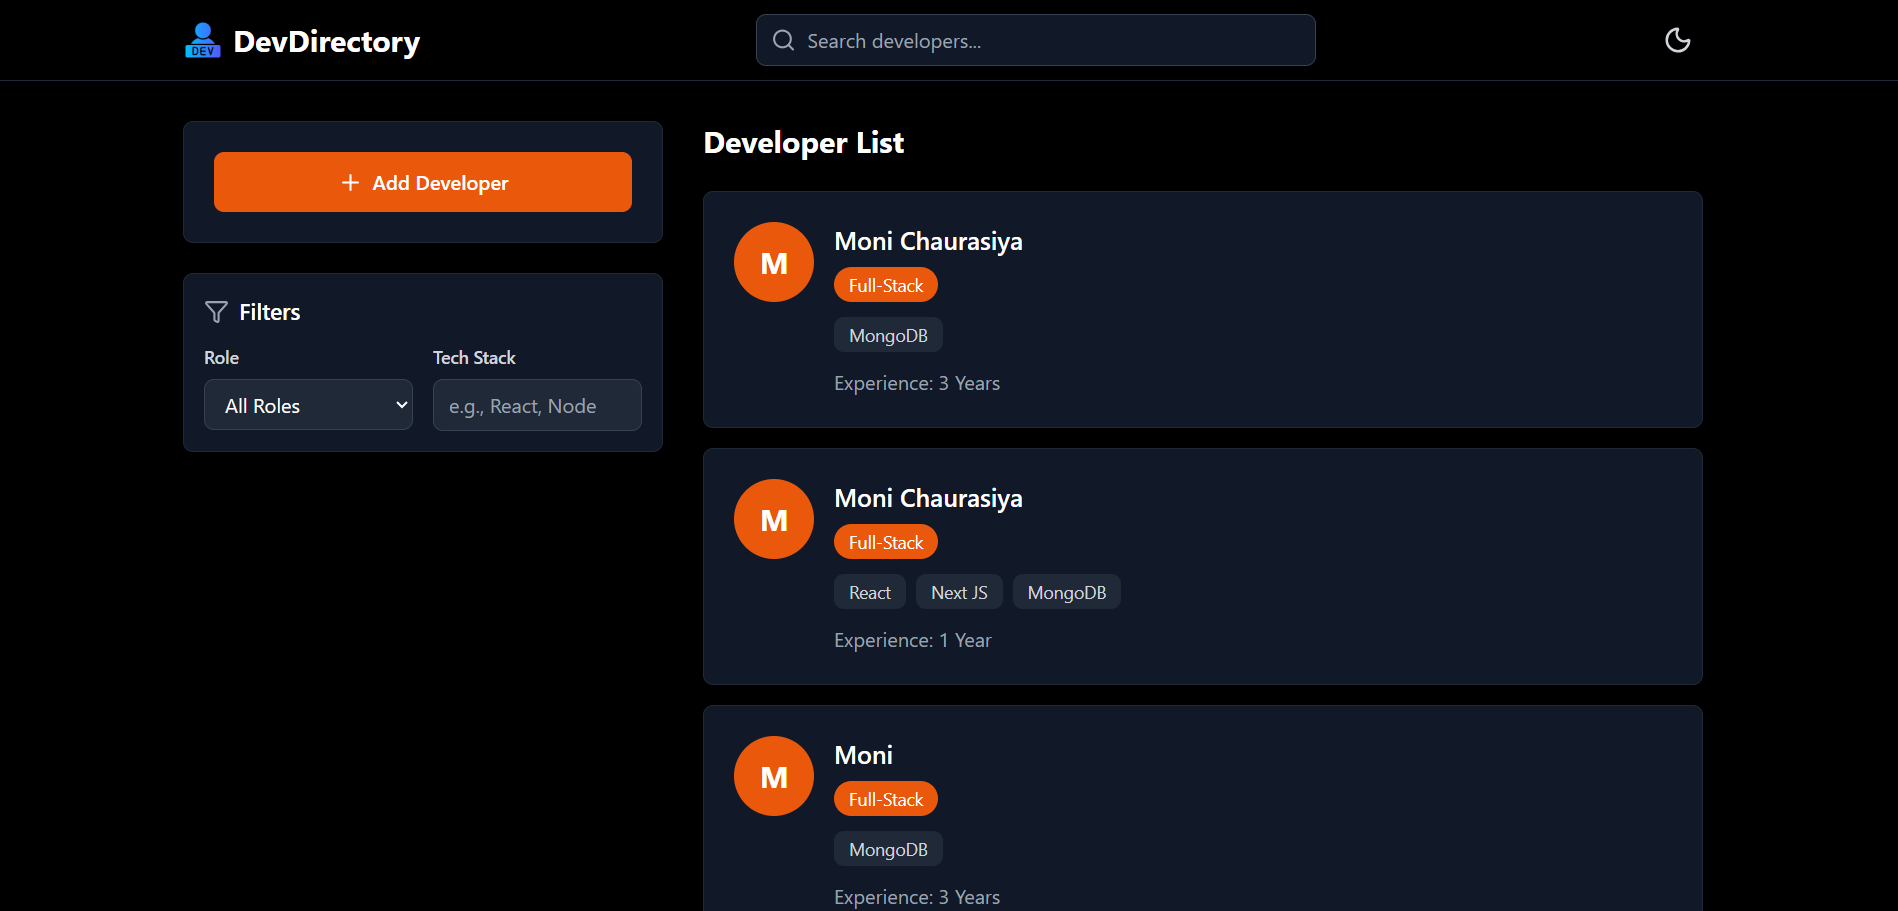
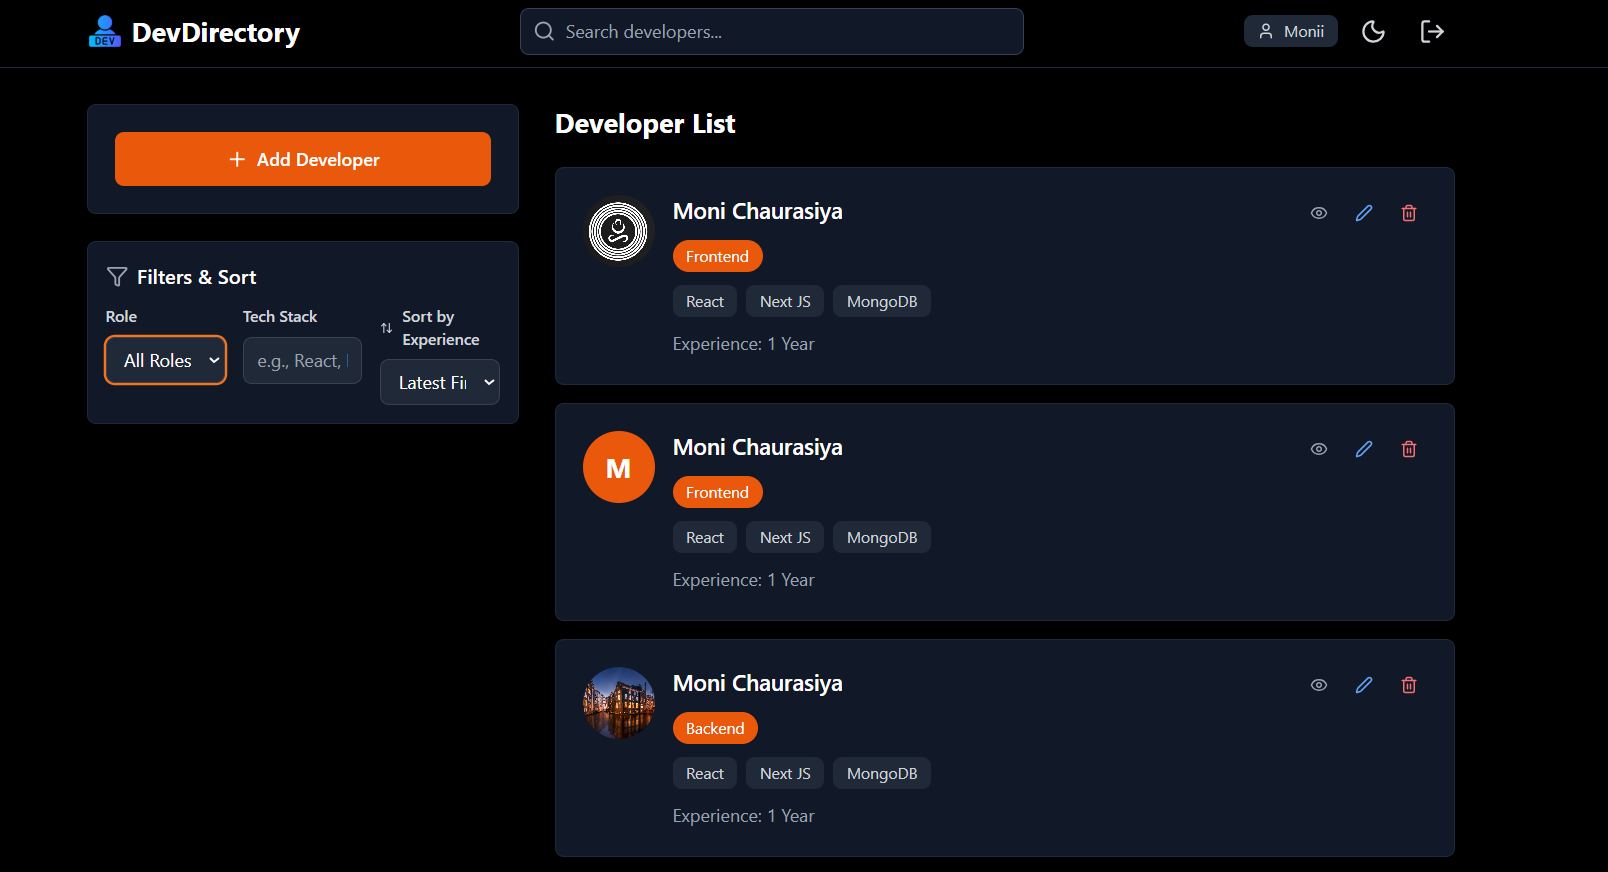
fix: fixed file upload and updated readme

diff --git a/backend/config/cloudinary.js b/backend/config/cloudinary.js
@@ -1,27 +1,60 @@
-const cloudinary = require('cloudinary').v2;
-const { CloudinaryStorage } = require('multer-storage-cloudinary');
+//const cloudinary = require('cloudinary').v2;
+//const { CloudinaryStorage } = require('multer-storage-cloudinary');
 const multer = require('multer');
+const path = require('path');
+const fs = require('fs');
 
-cloudinary.config({
-  cloud_name: process.env.CLOUDINARY_CLOUD_NAME,
-  api_key: process.env.CLOUDINARY_API_KEY,
-  api_secret: process.env.CLOUDINARY_API_SECRET
-});
+// cloudinary.config({
+//   cloud_name: process.env.CLOUDINARY_CLOUD_NAME,
+//   api_key: process.env.CLOUDINARY_API_KEY,
+//   api_secret: process.env.CLOUDINARY_API_SECRET
+// });
 
-const storage = new CloudinaryStorage({
-  cloudinary: cloudinary,
-  params: {
-    folder: 'devdirectory',
-    allowed_formats: ['jpg', 'jpeg', 'png', 'gif'],
-    transformation: [{ width: 500, height: 500, crop: 'limit' }]
+// const storage = new CloudinaryStorage({
+//   cloudinary: cloudinary,
+//   params: {
+//     folder: 'devdirectory',
+//     allowed_formats: ['jpg', 'jpeg', 'png', 'gif'],
+//     transformation: [{ width: 500, height: 500, crop: 'limit' }]
+//   }
+// });
+
+const uploadsDir = path.join(__dirname, '..', 'uploads');
+if (!fs.existsSync(uploadsDir)) {
+  fs.mkdirSync(uploadsDir, { recursive: true });
+}
+
+const storage = multer.diskStorage({
+  destination: function (req, file, cb) {
+    cb(null, uploadsDir); // Save to backend/uploads folder
+  },
+  filename: function (req, file, cb) {
+    // Create unique filename: timestamp-randomnumber-originalname
+    const uniqueSuffix = Date.now() + '-' + Math.round(Math.random() * 1E9);
+    const ext = path.extname(file.originalname);
+    const filename = `developer-${uniqueSuffix}${ext}`;
+    cb(null, filename);
   }
 });
+
+const fileFilter = (req, file, cb) => {
+  const allowedTypes = /jpeg|jpg|png|gif/;
+  const extname = allowedTypes.test(path.extname(file.originalname).toLowerCase());
+  const mimetype = allowedTypes.test(file.mimetype);
+
+  if (mimetype && extname) {
+    return cb(null, true);
+  } else {
+    cb(new Error('Only image files are allowed (jpeg, jpg, png, gif)'));
+  }
+};
 
 const upload = multer({
   storage: storage,
   limits: {
     fileSize: 5 * 1024 * 1024
-  }
+  },
+  fileFilter: fileFilter
 });
 
-module.exports = { cloudinary, upload };
+module.exports = {  upload };

diff --git a/frontend/src/components/DeveloperCard.jsx b/frontend/src/components/DeveloperCard.jsx
@@ -1,6 +1,6 @@
 import { useNavigate } from 'react-router-dom';
 import { Edit2, Trash2, Eye } from 'lucide-react';
-
+import { getImageUrl } from '../utils/helpers';
 const DeveloperCard = ({ developer, onEdit, onDelete }) => {
   const navigate = useNavigate();
   const { _id, fullName, role, techStack, experience, photo } = developer;
@@ -18,17 +18,28 @@ const DeveloperCard = ({ developer, onEdit, onDelete }) => {
     return colors[role] || 'bg-orange-600';
   };
 
+  // const getImageUrl = (photoPath) => {
+  //   if (!photoPath) return null;
+  //   if (photoPath.startsWith('http')) return photoPath;
+  //   return `http://localhost:5000${photoPath}`;
+  // };
+
   const techArray = techStack.split(',').map(tech => tech.trim());
 
   return (
     <div className="bg-white dark:bg-gray-900 rounded-lg p-6 border border-gray-200 dark:border-gray-800 hover:shadow-lg transition-shadow">
       <div className="flex items-start gap-4">
-        {/* Profile Picture or Initial */}
+       
         {photo ? (
           <img
-            src={photo}
+            //src={photo}
+            src={getImageUrl(photo)}
             alt={fullName}
             className="w-16 h-16 rounded-full object-cover flex-shrink-0"
+            onError={(e) => {
+              e.target.style.display = 'none';
+              e.target.nextSibling.style.display = 'flex';
+            }}
           />
         ) : (
           <div className="w-16 h-16 rounded-full bg-orange-600 flex items-center justify-center flex-shrink-0">
@@ -44,7 +55,6 @@ const DeveloperCard = ({ developer, onEdit, onDelete }) => {
               {fullName}
             </h3>
             
-            {/* Action Buttons */}
             <div className="flex items-center gap-2">
               <button
                 onClick={() => navigate(`/developer/${_id}`)}

diff --git a/backend/server.js b/backend/server.js
@@ -5,17 +5,9 @@ const connectDB = require('./config/database');
 const authRoutes =require('./routes/auth')
 const developerRoutes = require('./routes/developers');
 const errorHandler = require('./middleware/errorHandler');
+const path = require('path');
 
 dotenv.config();
-
-console.log('🔍 Environment Variables Check:');
-console.log('PORT:', process.env.PORT);
-console.log('MONGODB_URI:', process.env.MONGODB_URI ? '✅ Set' : '❌ Not Set');
-console.log('JWT_SECRET:', process.env.JWT_SECRET ? '✅ Set' : '❌ Not Set');
-console.log('CLOUDINARY_CLOUD_NAME:', process.env.CLOUDINARY_CLOUD_NAME || '❌ NOT SET');
-console.log('CLOUDINARY_API_KEY:', process.env.CLOUDINARY_API_KEY ? '✅ Set' : '❌ NOT SET');
-console.log('CLOUDINARY_API_SECRET:', process.env.CLOUDINARY_API_SECRET ? '✅ Set' : '❌ NOT SET');
-console.log('---');
 
 const app = express();
 const PORT = process.env.PORT || 5000;
@@ -24,8 +16,8 @@ connectDB();
 
 app.use(cors({
 
-  //origin: process.env.FRONTEND_URL || 'http://localhost:5173',
-  origin:  'http://localhost:5173',
+  origin: process.env.FRONTEND_URL || 'http://localhost:5173',
+ // origin:  'http://localhost:5173',
   Credentials: true
 }
 ));
@@ -33,16 +25,10 @@ app.use(express.json());
 app.use(express.urlencoded({extented: true}));
 
 
+app.use('/uploads', express.static(path.join(__dirname, 'uploads')));
+
 app.use('/api/auth',authRoutes)
 app.use('/api/developers', developerRoutes);
-
-app.get('/api/test-cloudinary', (req, res) => {
-     const { cloudinary } = require('./config/cloudinary');
-     res.json({
-       configured: !!cloudinary.config().cloud_name,
-       cloudName: cloudinary.config().cloud_name
-     });
-   });
 
 app.get('/', (req,res)=>{
   res.status(200).json({

diff --git a/backend/controllers/developerController.js b/backend/controllers/developerController.js
@@ -1,9 +1,11 @@
 const Developer = require('../models/Developer');
-
+const path = require('path');
+const fs = require('fs');
 exports.createDeveloper = async (req, res, next) => {
   try {
     const { fullName, role, techStack, experience, description } = req.body;
-    const photo= req.file ? req.file.path : '' ;
+    //const photo= req.file ? req.file.path : '' ;
+     const photo = req.file ? `/uploads/${req.file.filename}` : '';
     const developer = await Developer.create({
       fullName,
       role,
@@ -38,7 +40,14 @@ exports.updateDeveloper=async(req,res,next)=>{
     developer.description= description || developer.description;
 
     if(req.file){
-      developer.photo=req.file.path;
+     // developer.photo=req.file.path;
+     if (developer.photo) {
+        const oldPhotoPath = path.join(__dirname, '..', developer.photo);
+        if (fs.existsSync(oldPhotoPath)) {
+          fs.unlinkSync(oldPhotoPath);
+        }
+      }
+      developer.photo = `/uploads/${req.file.filename}`;
 
     }
     await developer.save();
@@ -61,6 +70,14 @@ exports.deleteDeveloper= async (req,res,next)=>{
         message: 'Developer not found'
       })
     }
+   
+    if (developer.photo) {
+      const photoPath = path.join(__dirname, '..', developer.photo);
+      if (fs.existsSync(photoPath)) {
+        fs.unlinkSync(photoPath);
+      }
+    }
+
     await developer.deleteOne();
     res.status(200).json({
       success:true,

diff --git a/frontend/src/components/DeveloperProfile.jsx b/frontend/src/components/DeveloperProfile.jsx
@@ -3,6 +3,12 @@ import { useParams, useNavigate } from 'react-router-dom';
 import { ArrowLeft, Calendar, Briefcase, Code, User } from 'lucide-react';
 import { getDeveloperById } from '../services/api';
 import toast from 'react-hot-toast';
+import { getImageUrl } from '../utils/helpers';
+// const getImageUrl = (photoPath) => {
+//   if (!photoPath) return null;
+//   if (photoPath.startsWith('http')) return photoPath;
+//   return `http://localhost:5000${photoPath}`;
+// };
 
 const DeveloperProfile = () => {
   const { id } = useParams();
@@ -85,7 +91,8 @@ const DeveloperProfile = () => {
         
               {developer.photo ? (
                 <img
-                  src={developer.photo}
+                  //src={developer.photo}
+                  src={getImageUrl(developer.photo)}
                   alt={developer.fullName}
                   className="w-32 h-32 rounded-full border-4 border-white dark:border-gray-900 object-cover"
                 />

diff --git a/frontend/src/utils/helpers.js b/frontend/src/utils/helpers.js
@@ -1,0 +1,12 @@
+const getBaseURL = () => {
+  const apiURL = import.meta.env.VITE_API_URL || 'http://localhost:5000/api';
+  //  const apiURL = 'http://localhost:5000/api';
+  return apiURL.replace('/api', '');
+};
+
+
+export const getImageUrl = (photoPath) => {
+  if (!photoPath) return null;
+  if (photoPath.startsWith('http')) return photoPath;
+  return `${getBaseURL()}${photoPath}`;
+};

diff --git a/frontend/src/services/api.js b/frontend/src/services/api.js
@@ -1,8 +1,8 @@
 import axios from 'axios';
 
 const api = axios.create({
-  baseURL: import.meta.env.VITE_API_URL || 'http://localhost:5000/api',
-  // baseURL: 'http://localhost:5000/api',
+    baseURL: import.meta.env.VITE_API_URL || 'http://localhost:5000/api',
+   // baseURL: 'http://localhost:5000/api',
     headers: {  
     'Content-Type': 'application/json'
   }

diff --git a/README.md b/README.md
@@ -6,12 +6,21 @@ A modern, full-stack developer directory application with dark/light mode, searc
 
 ### Desktop View - Dark Mode
 ![Desktop Dark Mode](/frontend/public/DarkMode.png)
-
+![Desktop Dark Mode](/frontend/public/DeveloperForm.png)
+![Desktop Dark Mode](/frontend/public/DeveloperProfile.png)
 ### Desktop View - Light Mode
 ![Desktop Light Mode](/frontend/public/LightMode.png)
 
-### Mobile View
-![Mobile View](/frontend/public/Mobile.png)
+<!-- ### Mobile View
+<p align="center">
+  <img src="/frontend/src/assets/Login.png" width="45%" />
+  <img src="/frontend/src/assets/Mobile.png" width="45%" />
+</p>
+
+<p align="center">
+  <img src="/frontend/src/assets/MobileForm.png" width="45%" />
+  <img src="/frontend/src/assets/MobileProfile.png" width="45%" />
+</p> -->
 
 ## 🛠 Tech Stack
 
@@ -53,6 +62,8 @@ npm install
 ```env
 PORT=5000
 MONGODB_URI=mongodb://localhost:27017/devdirectory
+JWT_SECRET=my_super_secret_key_for_devdirectory
+FRONTEND_URL=https://developer-directory-kappa.vercel.app/
 ```
 
 3. Start the server:
@@ -73,6 +84,8 @@ npm install
 2. Create `.env` file in `frontend/` folder:
 ```env
 VITE_API_URL=http://localhost:5000/api
+OR
+VITE_API_URL=https://developer-directory-6idf.onrender.com/api
 ```
 
 3. Start the development server:
@@ -86,7 +99,7 @@ Frontend runs on: `http://localhost:5173`
 
 ### Backend Deployment URL
 ```
-https://developer-directory-6idf.onrender.com
+https://developer-directory-6idf.onrender.com/
 ```
 
 
@@ -101,33 +114,11 @@ https://developer-directory-kappa.vercel.app/
 ✅ Add developers with form validation  
 ✅ Search by name  
 ✅ Filter by role (Frontend/Backend/Full-Stack)  
-✅ Filter by tech stack  
+✅ Filter by tech stack or experience  
 ✅ Dark/Light mode toggle  
 ✅ Fully responsive design  
 ✅ Toast notifications  
 ✅ Modern UI with Tailwind CSS  
-
-## 🔌 API Endpoints
-
-### GET `/api/developers`
-Get all developers (with optional filters)
-
-**Query Parameters:**
-- `role` - Filter by role
-- `techStack` - Filter by technology
-
-### POST `/api/developers`
-Create a new developer
-
-**Request Body:**
-```json
-{
-  "fullName": "Moni Chaurasiya",
-  "role": "Full-Stack",
-  "techStack": "React, Node, MongoDB",
-  "experience": 3
-}
-```
 
 
 **Made with ❤ using React vite + Node.js + MongoDB**
